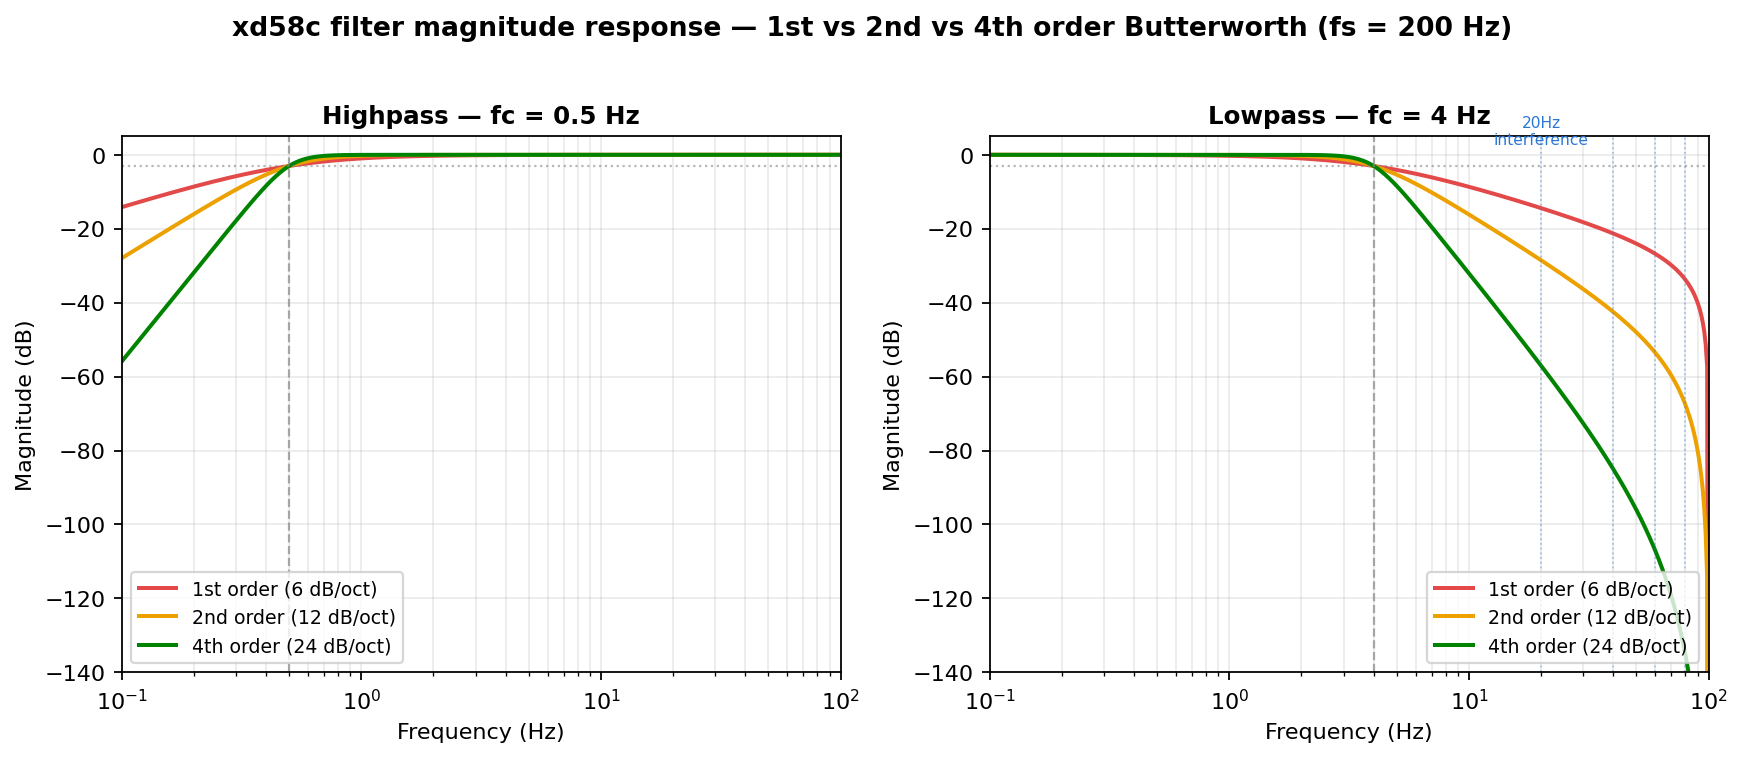
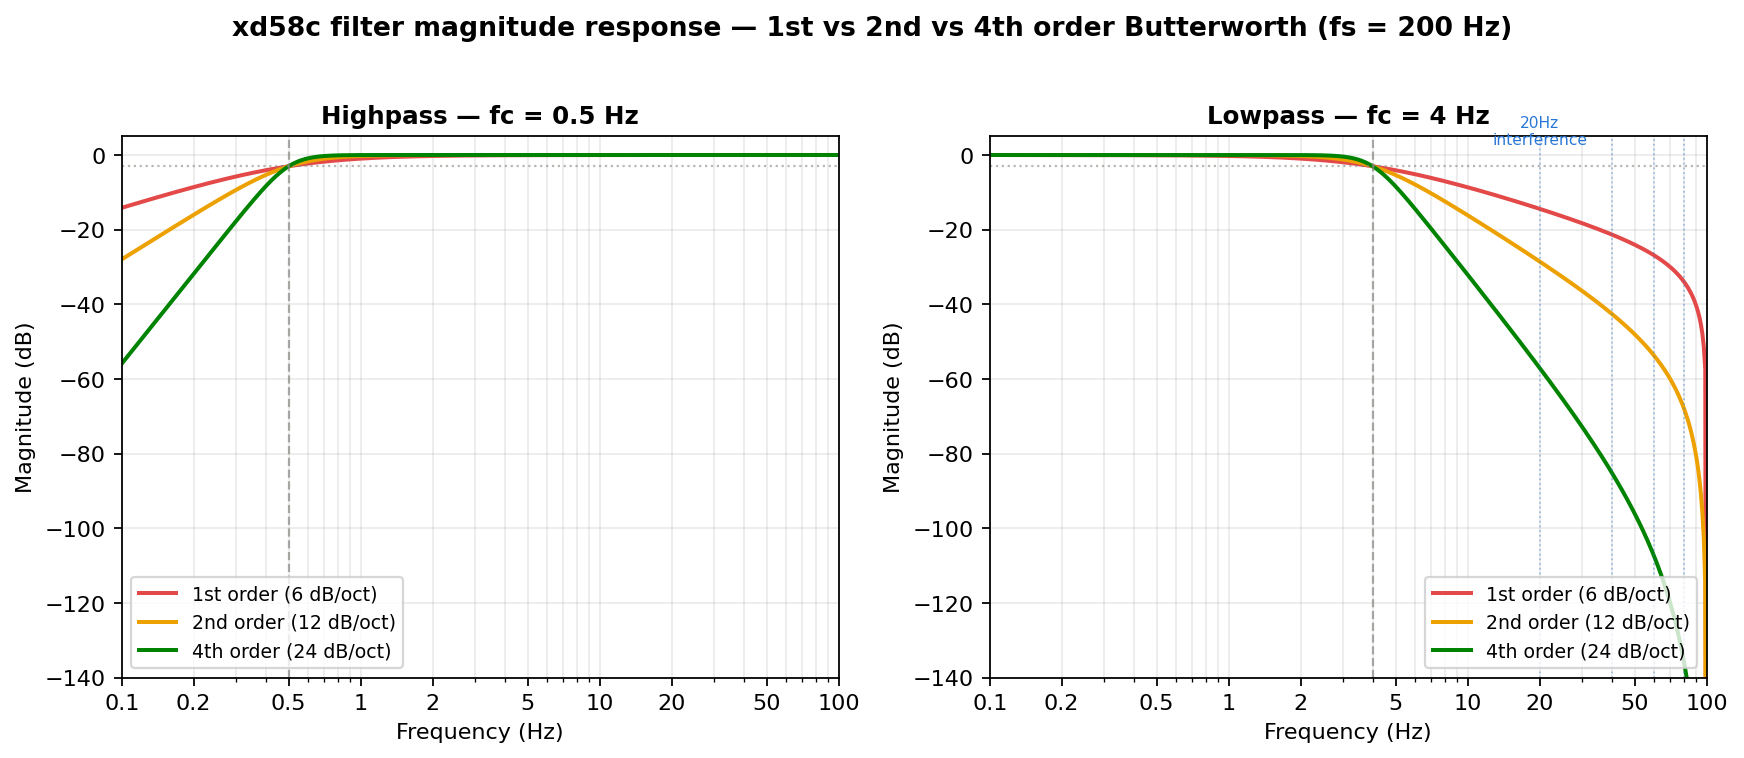
docs: fix log-axis tick labels and refresh noise-suppression data
- Show plain frequency values (0.1, 1, 10, 100...) on the x-axis of
  both filter comparison charts instead of matplotlib's default
  power-of-ten notation.
- Regenerate the noise-suppression chart from a finger-on samples.log
  capture (the prior idle-capture data was no longer available) and
  update the attenuation table in the README to match.

diff --git a/README.md b/README.md
@@ -55,7 +55,7 @@ Both filters are implemented as **2 cascaded biquad sections** (4th-order Butter
 
 ### Why 4th order
 
-The sensor's raw ADC signal carries a persistent, sharp interference tone around **20 Hz** (plus harmonics at 40/60/80 Hz) — likely PWM, mechanical vibration, or a switching artifact — that sits well outside the 0.5–4 Hz cardiac band but close enough that a shallow rolloff barely touches it. Applying each candidate filter order's theoretical lowpass response to a real captured raw spectrum (`samples.log`) shows the difference concretely:
+The sensor's raw ADC signal carries a persistent interference tone around **20 Hz** (plus harmonics at 40/60/80 Hz) — likely PWM, mechanical vibration, or a switching artifact — that sits well outside the 0.5–4 Hz cardiac band but close enough that a shallow rolloff barely touches it. Applying each candidate filter order's theoretical lowpass response to a real captured raw spectrum (`samples.log`, finger-on capture) shows the difference concretely:
 
 ![Filter order comparison](docs/filter_order_comparison.png)
 
@@ -65,12 +65,12 @@ Measured attenuation at the interference tone and its harmonics, applying each o
 
 | Tone | Raw (dB) | After 1st order | After 2nd order | After 4th order (current) |
 |------|---------:|-----------------:|-----------------:|---------------------------:|
-| 20 Hz (interference) | 26.14 | 11.75 | -2.31 | **-30.76** |
-| 40 Hz (2nd harmonic) | 19.85 | -1.39 | -22.56 | **-64.97** |
-| 60 Hz (3rd harmonic) | 16.84 | -10.01 | -36.85 | **-90.54** |
-| 80 Hz (4th harmonic) | 15.85 | -17.98 | -51.80 | **-119.45** |
+| 20 Hz (interference) | 9.49 | -4.89 | -18.96 | **-47.40** |
+| 40 Hz (2nd harmonic) | 0.79 | -20.45 | -41.62 | **-84.03** |
+| 60 Hz (3rd harmonic) | -1.07 | -27.93 | -54.76 | **-108.45** |
+| 80 Hz (4th harmonic) | -1.79 | -35.62 | -69.44 | **-137.09** |
 
-At 1st order the 20 Hz interference is barely touched (still +11.75 dB — louder than the noise floor). At 2nd order it drops close to 0 dB but is still a visible spike above the surrounding floor. At 4th order (current) it's pushed to -30.76 dB — roughly at or below the local noise floor and no longer a distinguishable spectral feature, with the harmonics suppressed even further. This was verified against real hardware captures, not just the analytic model — see the interactive Bode plot / measured PSD below for the live comparison.
+At 1st order the 20 Hz interference is only pulled down a few dB, still close to the surrounding floor. At 2nd order it's clearly attenuated but remains a visible bump. At 4th order (current) it's pushed to -47.4 dB — over 55 dB below its raw level and well beneath the noise floor, with the harmonics suppressed even further. This was verified against real hardware captures, not just the analytic model — see the interactive Bode plot / measured PSD below for the live comparison.
 
 **Interactive Bode plot + measured spectrum:** [xd58c Filter Frequency Response](https://claude.ai/code/artifact/59b802e4-a292-4a3a-9cb1-cb7f7538e935) — hover for exact dB values at any frequency, toggle table view, and compare the analytic 4th-order response against a Welch PSD of an actual `samples.log` capture.
 
